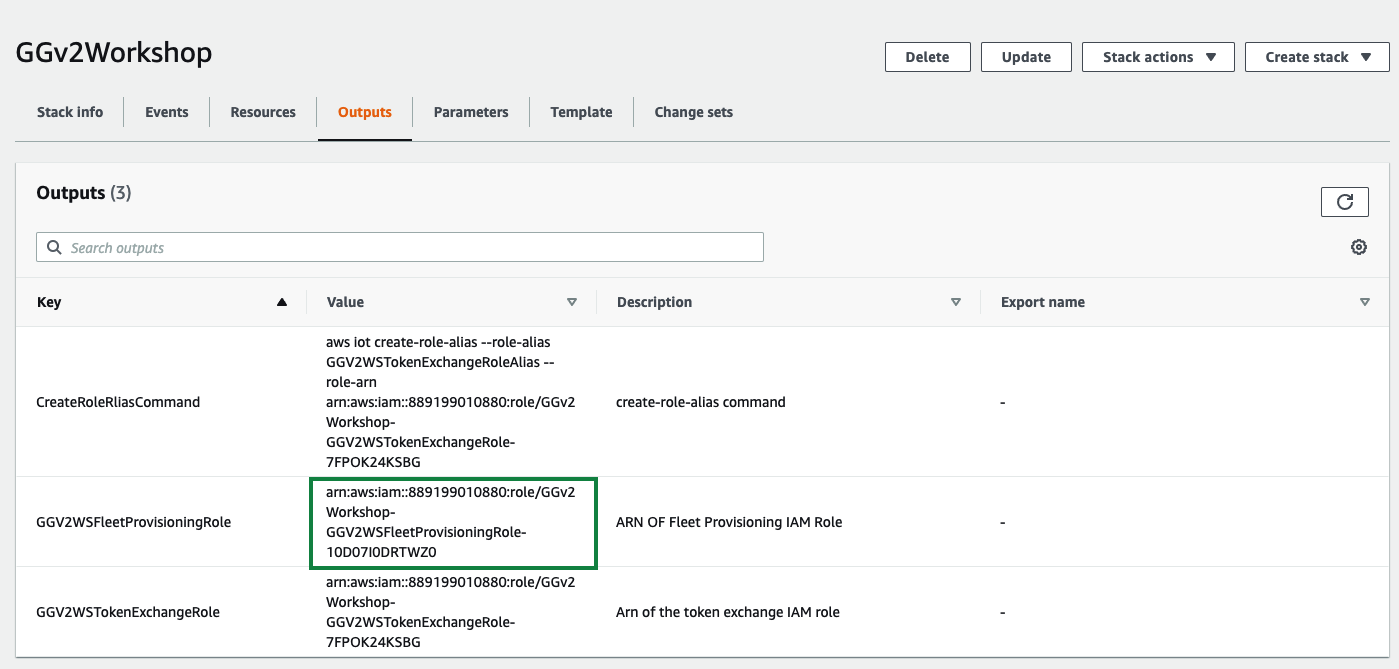
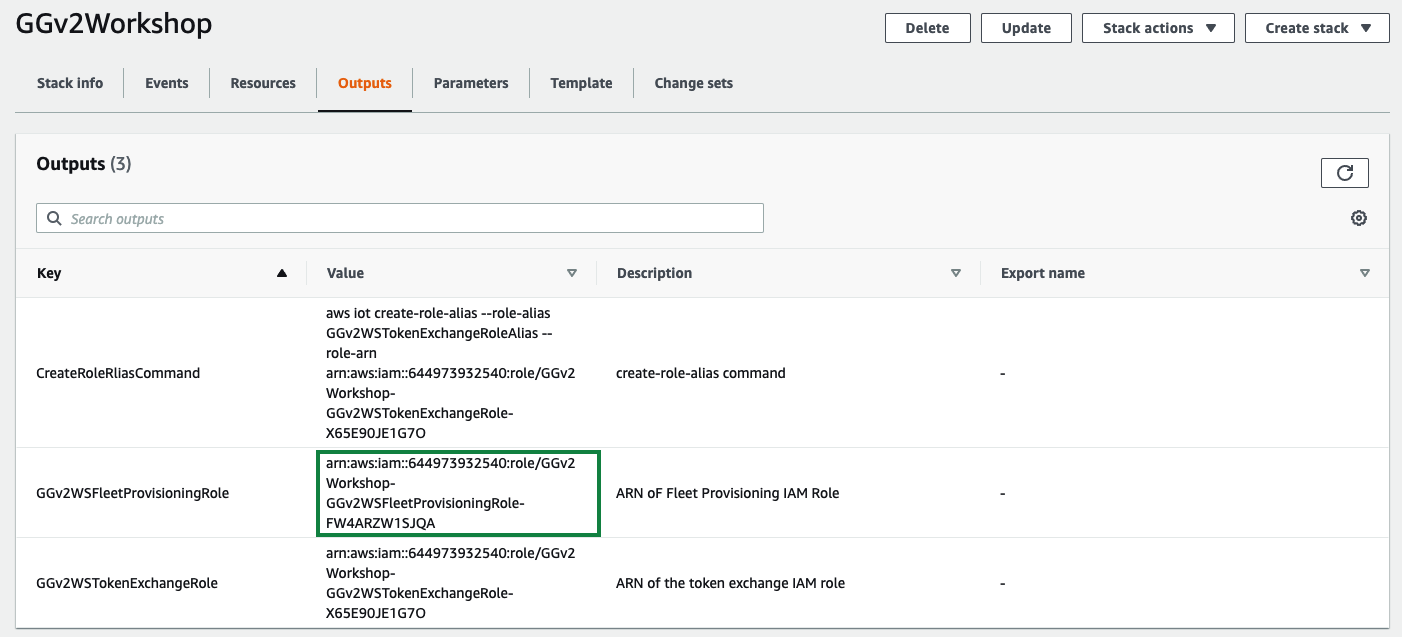
updated lab1

diff --git a/workshop/content/1/1_1/_index.en.md b/workshop/content/1/1_1/_index.en.md
@@ -31,7 +31,7 @@ In a terminal in Cloud9, please paste command to make an AWS IoT role alias that
 The command looks simliar to the below example.
 
 ``` shell
-aws iot create-role-alias --role-alias GGv2WSTokenExchangeRoleAlias --role-arnarn:aws:iam::123456789012:role/GGv2Workshop-GGv2WSTokenExchangeRole-1UGDXWM2VHZZE
+ aws iot create-role-alias --role-alias GGv2WSTokenExchangeRoleAlias --role-arn arn:aws:iam::644973932540:role/GGv2Workshop-GGv2WSTokenExchangeRole-X65E90JE1G7O
 ```
 
 The response looks similar to the following example, if the request succeeds.

diff --git a/workshop/content/1/1_2/_index.en.md b/workshop/content/1/1_2/_index.en.md
@@ -80,7 +80,7 @@ Please use below command to create a fleet provisioning template. Please replace
 
 ``` shell
 aws iot create-provisioning-template \
-  --template-name GGv2FleetProvisioningTemplate \
+  --template-name GGv2WSFleetProvisioningTemplate \
   --description "A provisioning template for Greengrass core devices." \
   --provisioning-role-arn "[ARN of Fleet Provisioning IAM Role]" \
   --template-body file://greengrass-fleet-provisioning-template.json \
